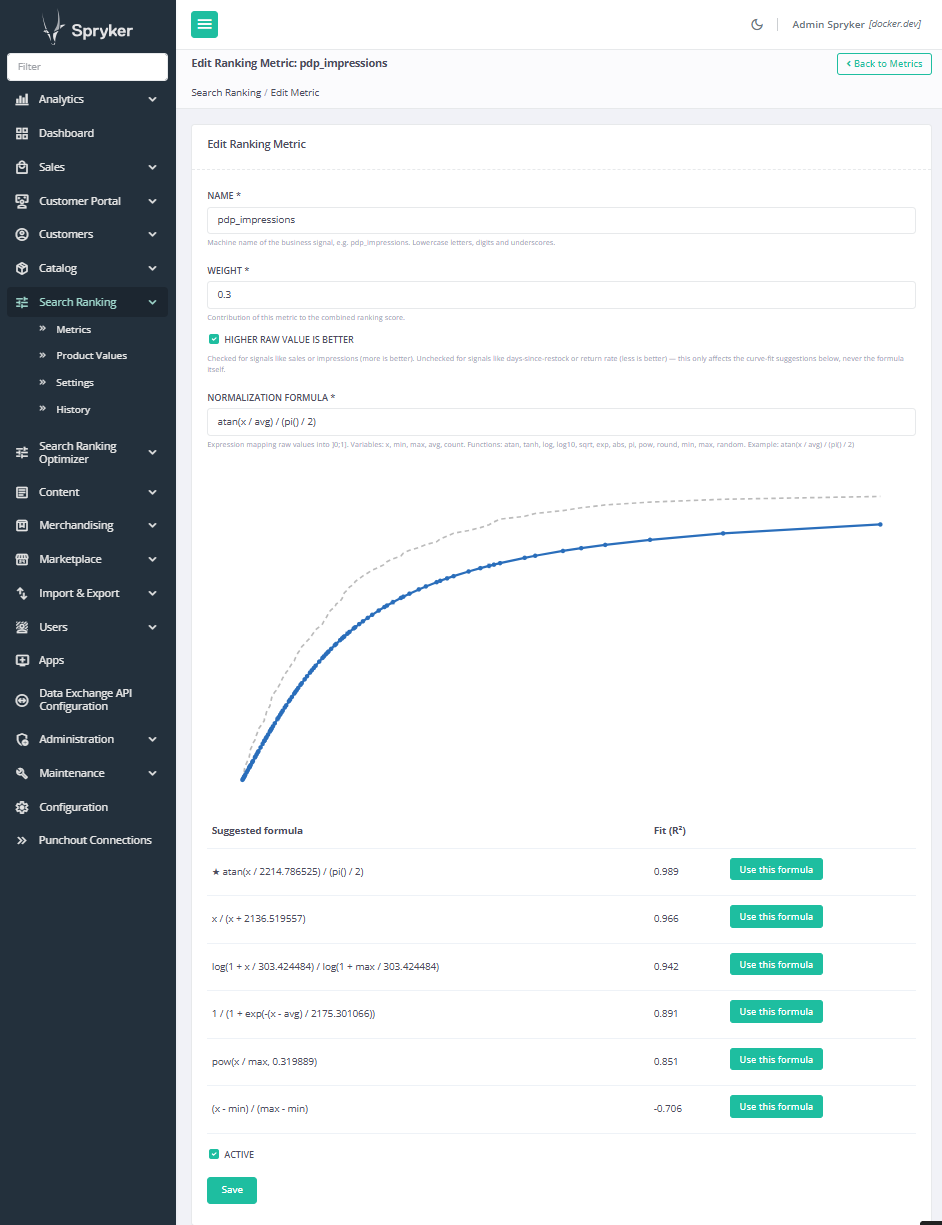
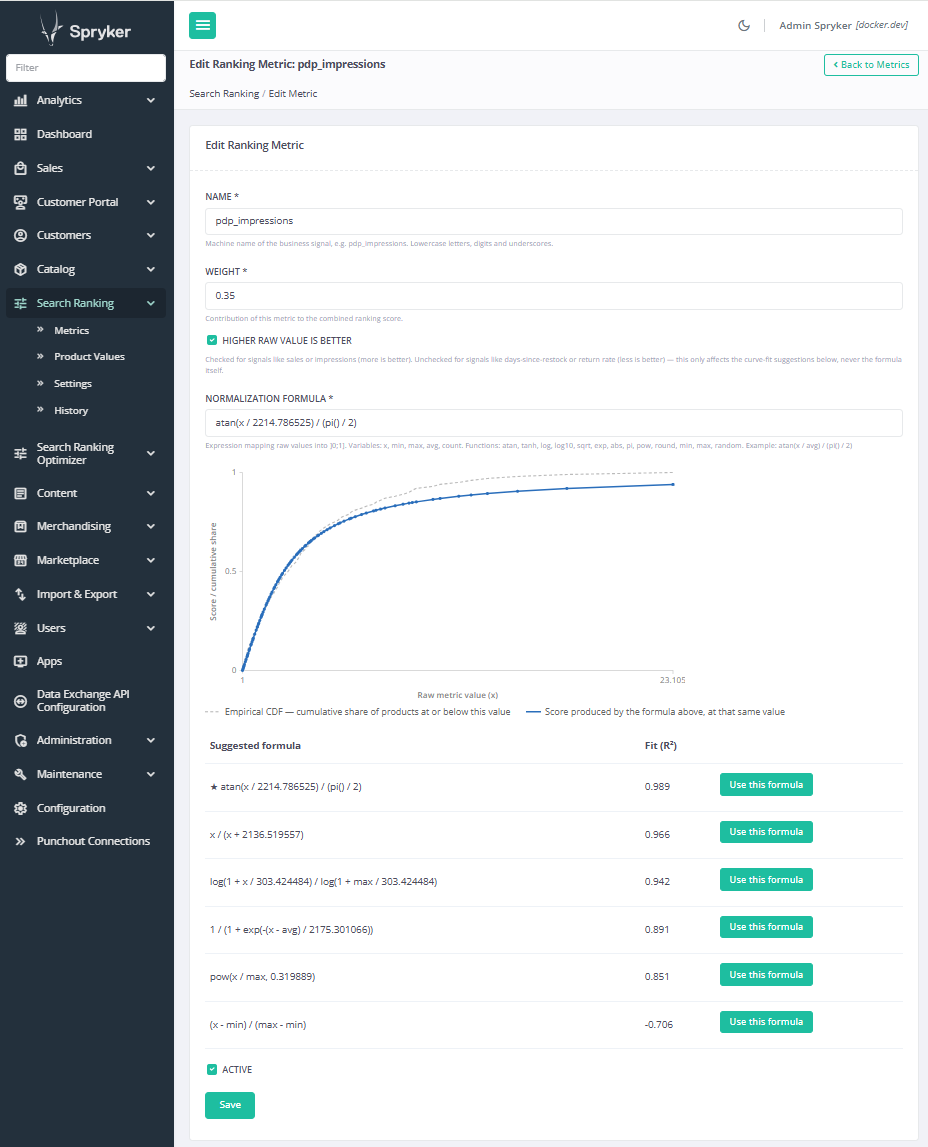
Label the normalization preview chart's axes and add a legend
The SVG preview on the metric edit page had no axis labels, ticks, or
legend, so two metrics with wildly different raw-value ranges (e.g.
top_seller 0-757 vs pdp_impressions 0-23105) rendered onto identical
pixel geometry with nothing to indicate the scales differed — the
dashed CDF line and solid formula line were also unlabeled, making it
easy to misread which was which. Also caps the plot at 640x480 via CSS
so it no longer grows to fill wide windows on large screens.

diff --git a/README.md b/README.md
@@ -13,7 +13,7 @@ The standout piece: a data-driven normalization-authoring GUI. As you type a for
 evaluates it against the metric's own real distribution and draws the curve live, alongside ranked
 closed-form curve-fit suggestions — no guessing what shape a business signal should take:
 
-![The metric edit page: a live SVG preview of the typed normalization formula plotted against the metric's own real distribution, with ranked closed-form curve-fit suggestions (atan, saturating-ratio, log, sigmoid, power, linear) each showing their R² fit and a one-click "use this formula" action](docs/screenshots/normalization-authoring.png)
+![The metric edit page: a live, labeled-axis SVG preview of the typed normalization formula (with a legend distinguishing it from the metric's own empirical-CDF reference line) plotted against the metric's own real distribution, with ranked closed-form curve-fit suggestions (atan, saturating-ratio, log, sigmoid, power, linear) each showing their R² fit and a one-click "use this formula" action](docs/screenshots/normalization-authoring.png)
 
 ## Contents
 
